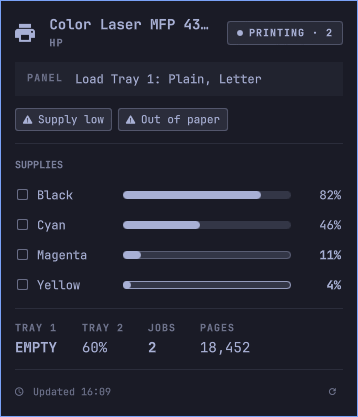
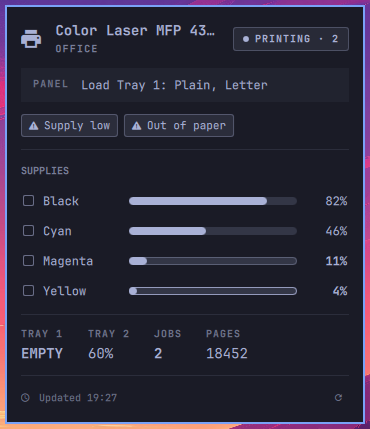
tooltip: the frame goes, and the one that stays pins its font
The tooltip was drawn two ways for the same content. --frame's box was
the second: more code, more documentation, more screenshots — and it only
lined up when the pinned font was a complete Mono Nerd Font. The Arch
package ttf-jetbrains-mono-nerd does NOT ship that family, so the default
fell back to the system's proportional font without saying so and the box
came out ragged.

One shape stays, and it pins the font. The pin is not decoration: the
rules are made of ─, which in a proportional font is nearly twice as wide
as a letter, so the tooltip sized itself to the rules and grew a dead
margin to the right of the text — 530px of box for 370px of content.
Waybar draws the tooltip in a GTK window that IGNORES font-family from
CSS (tested: five selector variants and gtk-font-name, none of them
work), so the markup is the only place this can be said.

The default font is a LIST of families, not one name: Pango tries them in
order and falls through to the next when one is not installed. That way a
family name that does not exist stops being a silent trap.

--frame and --frame-font are still accepted so an existing config keeps
working: --frame does nothing, --frame-font is an alias for the new
--tooltip-font. Both are marked deprecated in the header, with the why.

diff --git a/src/render.rs b/src/render.rs
@@ -1,5 +1,5 @@
 //! Render a `PrinterState` into Waybar JSON: bar from a token template (with
-//! literal-absorption on hidden tokens), framed/themed tooltip, and a worst-state class.
+//! literal-absorption on hidden tokens), themed tooltip, and a worst-state class.
 
 use crate::color::ColorMode;
 use crate::config::{OnMissing, PrinterConfig};
@@ -274,7 +274,7 @@ fn status_dot<'a>(state: &PrinterState, t: &'a ThemeColors) -> &'a str {
     }
 }
 
-/// Build the framed, themed tooltip from configured items. `p` decides whether
+/// Build the themed tooltip from configured items. `p` decides whether
 /// the theme colors are actually painted (see `--no-color`); everything
 /// structural — glyphs, level cells, box drawing, alignment — is unaffected.
 fn build_tooltip(state: &PrinterState, cfg: &PrinterConfig, t: &ThemeColors, p: Paint) -> String {
@@ -426,45 +426,28 @@ fn build_tooltip(state: &PrinterState, cfg: &PrinterConfig, t: &ThemeColors, p: 
         .max()
         .unwrap_or(0)
         .max(12);
-    // Framed = box drawn and the whole tooltip pinned to a Mono Nerd Font so rows
-    // stay aligned under any bar font. Plain (default) = no border/pin, renders in
-    // the user's font (nothing aligned to a right edge to misalign).
-    let frame = cfg.tooltip.frame;
-    let mut out: Vec<String> = Vec::new();
-    if frame {
-        out.push(p.top_border(width, &t.border));
-    }
-    for r in &rows {
-        if r == SEP {
-            if frame {
-                out.push(p.separator(width, &t.border, &t.dim));
+    // One tooltip shape, pinned to a monospace font. The pin is not decoration:
+    // the rules are made of ─, and in a proportional font that character is
+    // nearly twice as wide as a letter — the tooltip then sizes itself to the
+    // rules and grows a dead margin to the right of the text. Waybar draws the
+    // tooltip in a GTK window that IGNORES font-family from CSS, so the markup
+    // is the only place this can be said.
+    let out: Vec<String> = rows
+        .iter()
+        .map(|r| {
+            if r == SEP {
+                p.fg(&t.dim, &"─".repeat(width))
             } else {
-                out.push(p.fg(&t.dim, &"─".repeat(width)));
+                r.clone()
             }
-        } else if frame {
-            let pad = " ".repeat(width.saturating_sub(visible_len(r)));
-            out.push(format!(
-                "{} {r}{pad} {}",
-                p.fg(&t.border, "│"),
-                p.fg(&t.border, "│")
-            ));
-        } else {
-            out.push(r.clone());
-        }
-    }
-    if frame {
-        out.push(p.bottom_border(width, &t.border));
-    }
+        })
+        .collect();
 
     let body = out.join("\n");
-    if frame {
-        format!(
-            "<span font_family='{}'>{body}</span>",
-            pango_escape(&cfg.tooltip.frame_font).replace('\'', "&apos;")
-        )
-    } else {
-        body
-    }
+    format!(
+        "<span font_family='{}'>{body}</span>",
+        pango_escape(&cfg.tooltip.tooltip_font).replace('\'', "&apos;")
+    )
 }
 
 pub fn render(
@@ -602,20 +585,35 @@ mod tests {
         let tip = build_tooltip(&st, &c, &t, Paint::new(true));
         assert!(tip.contains("+8 more"));
         // 12 supply rows + "+8 more" row → 13 data rows, then the freshness
-        // footer (rule + "Updated HH:MM"), + 2 borders
-        assert_eq!(tip.lines().count(), 12 + 1 + 2 + 2);
+        // footer (rule + "Updated HH:MM")
+        assert_eq!(tip.lines().count(), 12 + 1 + 2);
     }
 
     #[test]
-    fn plain_tooltip_is_borderless_and_unpinned() {
+    fn the_tooltip_is_borderless_and_pinned() {
         let t = ThemeColors::default();
-        let mut c = cfg(); // frame defaults to false → plain
+        let mut c = cfg();
         c.tooltip.items = vec!["supplies".into()];
         let mut st = PrinterState::default();
         st.supplies.push(consumed("Black", Color::Black, 50));
         let tip = build_tooltip(&st, &c, &t, Paint::new(true));
         assert!(!tip.contains('╭') && !tip.contains('╰') && !tip.contains('│'));
-        assert!(!tip.contains("font_family"));
+        // The pin is what keeps the rules the same width as the text they
+        // underline; without it a proportional font stretches them.
+        assert!(tip.contains("font_family="));
+    }
+
+    #[test]
+    fn a_deprecated_frame_setting_changes_nothing() {
+        let t = ThemeColors::default();
+        let mut c = cfg();
+        c.tooltip.items = vec!["supplies".into()];
+        let mut st = PrinterState::default();
+        st.supplies.push(consumed("Black", Color::Black, 50));
+        let without = build_tooltip(&st, &c, &t, Paint::new(true));
+        c.tooltip.frame = true; // still accepted, does nothing
+        let with = build_tooltip(&st, &c, &t, Paint::new(true));
+        assert_eq!(without, with);
     }
 
     // ---- monochrome mode (`--no-color`) ------------------------------------
@@ -702,10 +700,7 @@ mod tests {
         // Same rows, same box, same glyphs, same words — only the hues are gone.
         assert_eq!(mono.tooltip.lines().count(), full.tooltip.lines().count());
         for needle in [
-            "╭",
-            "╰",
-            "│",
-            "─", // the frame
+            "─", // the rules
             "●",
             "\u{26a0}",
             "\u{f1296}", // status dot, alert, tray glyphs
@@ -729,8 +724,9 @@ mod tests {
             .tooltip
             .contains("<span font_weight='bold'>HP M477fdw</span>"));
         assert!(mono.tooltip.contains("font_family="));
-        // Rows still line up: the frame is only square if the widths matched.
-        let widths: Vec<usize> = mono.tooltip.lines().map(visible_len).collect();
-        assert!(widths.windows(2).all(|w| w[0] == w[1]), "{widths:?}");
+        // Dropping color must not change any row's geometry.
+        let full_widths: Vec<usize> = full.tooltip.lines().map(visible_len).collect();
+        let mono_widths: Vec<usize> = mono.tooltip.lines().map(visible_len).collect();
+        assert_eq!(full_widths, mono_widths);
     }
 }

diff --git a/src/config.rs b/src/config.rs
@@ -56,14 +56,26 @@ pub struct TooltipCfg {
     pub on_missing: OnMissing,
     #[serde(default = "default_max_rows")]
     pub max_rows: usize,
-    /// Draw the framed tooltip box and pin `JetBrainsMono Nerd Font Mono` so rows
-    /// stay aligned under any bar font. Off (default) = plain, borderless, no font
-    /// pin — renders in the user's font; needs no specific font installed.
+    /// DEPRECATED, still accepted so an existing config keeps loading. It drew
+    /// a bordered card around the tooltip and now does nothing. Read nowhere on
+    /// purpose: the point is that an old `frame = true` neither errors nor
+    /// changes what is drawn.
     #[serde(default)]
+    #[allow(dead_code)]
     pub frame: bool,
-    /// Font family pinned in framed mode — must be a complete Mono Nerd Font.
-    #[serde(default = "default_frame_font")]
-    pub frame_font: String,
+    /// The tooltip is pinned to this family. A Pango family LIST, not one name:
+    /// Pango tries them in order and falls through when one is not installed —
+    /// the Arch package ttf-jetbrains-mono-nerd does NOT ship the "…Mono"
+    /// family, so pinning only that name fell back to the system's proportional
+    /// font without saying so.
+    ///
+    /// It must be monospace: the tooltip's rules are box-drawing characters,
+    /// which in a proportional font render far wider than letters, so the
+    /// tooltip sizes itself to the rules and grows a dead margin to the right
+    /// of the text. Waybar draws the tooltip in a GTK window that ignores
+    /// font-family from CSS, so the markup is the only place to say it.
+    #[serde(default = "default_tooltip_font", alias = "frame_font")]
+    pub tooltip_font: String,
 }
 
 #[derive(Debug, Clone, Deserialize)]
@@ -125,8 +137,8 @@ fn default_tooltip_items() -> Vec<String> {
 fn default_max_rows() -> usize {
     12
 }
-fn default_frame_font() -> String {
-    "JetBrainsMono Nerd Font Mono".into()
+fn default_tooltip_font() -> String {
+    "JetBrainsMono Nerd Font Mono, JetBrainsMono Nerd Font, monospace".into()
 }
 fn default_low() -> u8 {
     15
@@ -158,7 +170,7 @@ impl Default for TooltipCfg {
             on_missing: OnMissing::default(),
             max_rows: default_max_rows(),
             frame: false,
-            frame_font: default_frame_font(),
+            tooltip_font: default_tooltip_font(),
         }
     }
 }

diff --git a/src/waybar.rs b/src/waybar.rs
@@ -83,28 +83,6 @@ impl Paint {
             format!("<span font_weight='bold'>{text}</span>")
         }
     }
-
-    pub fn border_line(&self, content: &str, width: usize, border_color: &str) -> String {
-        let pad = width.saturating_sub(visible_len(content));
-        let right_pad = " ".repeat(pad);
-        format!(
-            "{} {content}{right_pad} {}",
-            self.fg(border_color, "│"),
-            self.fg(border_color, "│")
-        )
-    }
-
-    pub fn separator(&self, width: usize, border_color: &str, dim_color: &str) -> String {
-        self.border_line(&self.fg(dim_color, &"─".repeat(width)), width, border_color)
-    }
-
-    pub fn top_border(&self, width: usize, border_color: &str) -> String {
-        self.fg(border_color, &format!("╭{}╮", "─".repeat(width + 2)))
-    }
-
-    pub fn bottom_border(&self, width: usize, border_color: &str) -> String {
-        self.fg(border_color, &format!("╰{}╯", "─".repeat(width + 2)))
-    }
 }
 
 /// Pango attributes that paint something. Everything else on a `<span>` is
@@ -264,18 +242,15 @@ mod tests {
     }
 
     #[test]
-    fn monochrome_paint_emits_no_color_but_keeps_weight_and_frame() {
+    fn monochrome_paint_emits_no_color_but_keeps_weight() {
         let p = Paint::new(false);
         assert_eq!(p.fg("#fff", "x"), "x");
         assert_eq!(p.bold_fg("#fff", "x"), "<span font_weight='bold'>x</span>");
-        assert_eq!(p.top_border(3, "#fff"), "╭─────╮");
-        assert_eq!(p.border_line("ab", 4, "#fff"), "│ ab   │");
-        assert!(!p.separator(4, "#fff", "#888").contains("foreground"));
         // Structure is untouched: same visible width as the colored painter.
         let c = Paint::new(true);
         assert_eq!(
-            visible_len(&p.border_line("ab", 4, "#fff")),
-            visible_len(&c.border_line("ab", 4, "#fff"))
+            visible_len(&p.fg("#fff", "ab")),
+            visible_len(&c.fg("#fff", "ab"))
         );
     }
 

diff --git a/src/main.rs b/src/main.rs
@@ -19,7 +19,6 @@ use sources::ipp::IppSource;
 use sources::snmp::SnmpSource;
 use sources::{run_sources, Source, SourceKind, Target};
 
-
 /// The reference `--help` prints. Same shape as the shell widgets in the
 /// family: a usage line, then one paragraph per flag, then the subcommands.
 /// Plain text on stdout, exit 0 — the exit-0 JSON contract is for the widget
@@ -217,7 +216,10 @@ mod tests {
         for flag in ["--help", "--json", "--no-color"] {
             assert!(HELP.contains(flag), "HELP does not document {flag}");
         }
-        assert!(HELP.contains("action"), "HELP does not document the action subcommand");
+        assert!(
+            HELP.contains("action"),
+            "HELP does not document the action subcommand"
+        );
     }
     use super::*;
 

diff --git a/README.md b/README.md
@@ -5,11 +5,27 @@
 
 A printer monitor for [Waybar](https://github.com/Alexays/Waybar) and the [Omarchy](https://omarchy.org) shell. It shows the status of the printer, the supply levels, the trays, the queue and the text on the front panel of the printer. It does this for **any** printer, on the network or on USB, and it does not depend on one vendor.
 
-One collector, two frontends:
+The same core drives both frontends, so a number reads the same on either one:
 
-| Waybar tooltip | Omarchy shell panel |
+| The Omarchy shell plugin | The Waybar module |
 | :---: | :---: |
-| <img src="screenshots/waybar-tooltip.png" alt="printbar's Waybar tooltip" width="316"> | <img src="screenshots/omarchy-panel.png" alt="printbar's Omarchy shell panel" width="362"> |
+| <img src="screenshots/omarchy-desktop.png" alt="printbar in the Omarchy shell: the bar face and the printer panel"> | <img src="screenshots/waybar-desktop.png" alt="printbar in Waybar: the bar face and the printer tooltip"> |
+
+## Contents
+
+- [Why printbar?](#why-printbar)
+- [Features](#features)
+- [Requirements](#requirements)
+- [Installation](#installation)
+- [Quick start](#quick-start)
+- [Configuration](#configuration)
+- [Theming](#theming)
+- [Instant updates](#instant-updates)
+- [Omarchy shell plugin](#omarchy-shell-plugin)
+- [Structured JSON output](#structured-json-output)
+- [How it works](#how-it-works)
+- [Troubleshooting](#troubleshooting)
+- [Related](#related)
 
 ## Why printbar?
 
@@ -94,6 +110,11 @@ Then add `"custom/printbar"` to a `modules-*` list. Start Waybar again.
 
 <p align="center">
   <img src="screenshots/waybar-bar.png" alt="printbar in Waybar" width="72">
+</p>
+
+<p align="center">
+  <em>Move the pointer onto it to see the supplies, the trays and the queue:</em><br><br>
+  <img src="screenshots/waybar-tooltip.png" alt="The printbar tooltip: status, supplies, trays and queue" width="316">
 </p>
 
 The full reference of the options is in [`config.example.toml`](config.example.toml).
@@ -238,11 +259,11 @@ systemctl --user enable --now printbar-watch
 printbar also has a native plugin for the bar of the [Omarchy](https://omarchy.org) shell. It uses the same collector, but it renders a real widget and not a Pango tooltip.
 
 <p align="center">
-  <img src="screenshots/omarchy-desktop.png" alt="printbar in the Omarchy bar, with its panel open" width="960">
+  <img src="screenshots/omarchy-bar.png" alt="printbar in the Omarchy shell bar" width="42">
 </p>
 
 <p align="center">
-  <img src="screenshots/omarchy-bar.png" alt="printbar in the Omarchy shell bar" width="42">
+  <img src="screenshots/omarchy-panel.png" alt="The printbar panel: status, supplies, trays and queue" width="362">
 </p>
 
 The bar shows a printer glyph. The glyph is muted when the printer is idle, and it shows the count of the jobs when the printer prints. An urgent tint shows a jam, a critical state or an offline state.
@@ -298,6 +319,13 @@ The panel follows the live theme tokens of the shell, so it changes its colors i
 |:---:|:---:|:---:|
 | ![Ristretto](screenshots/omarchy-theme-ristretto.png) | ![Nord](screenshots/omarchy-theme-nord.png) | ![Kanagawa](screenshots/omarchy-theme-kanagawa.png) |
 
+The plugin also answers the shell's IPC, so a keybind or a script can drive it without the mouse:
+
+```bash
+qs ipc call mryll.printbar toggle    # open or close the panel
+qs ipc call mryll.printbar refresh   # fetch now, without opening anything
+```
+
 ## Structured JSON output
 
 `printbar <name> --json` prints one document with raw data only. It has no Pango markup and no pre-drawn bars. The Omarchy plugin reads this document, and all other frontends can also use it. The `schema_version` field gives its version. Like the Waybar mode, it always exits with code 0. A failure gives `"state": "error"` and `"error": {"message": …}`, and the fields of the reading are empty.
@@ -335,3 +363,13 @@ IPP and the local CUPS queue use the same attribute parser. SNMP adds the page c
 - **Does the widget show "not installed or not on PATH"?** The Omarchy plugin runs `printbar` from `PATH`. Run `make install PREFIX=~/.local`. Then make sure that `~/.local/bin` is in the PATH that the shell had when it started.
 - **Did you edit the QML and nothing changed?** Run `omarchy restart shell`.
 - **Does the push service not operate?** It needs CUPS with D-Bus notifications. Check `systemctl --user status printbar-watch`. Then make sure that the `signal` of your module agrees with `PRINTBAR_WAYBAR_SIGNAL`.
+
+## Related
+
+- [claudebar](https://github.com/mryll/claudebar) — Claude AI plan usage
+- [codexbar](https://github.com/mryll/codexbar) — OpenAI Codex subscription usage
+- [logibar](https://github.com/mryll/logibar) — the battery of Logitech devices
+- [meteobar](https://github.com/mryll/meteobar) — the weather, from Open-Meteo
+- [tickerbar](https://github.com/mryll/tickerbar) — prices of crypto, stocks, indices, commodities and forex
+- [Omarchy](https://github.com/basecamp/omarchy) — the Linux setup for these widgets
+- [Waybar](https://github.com/Alexays/Waybar) — the status bar for Wayland
